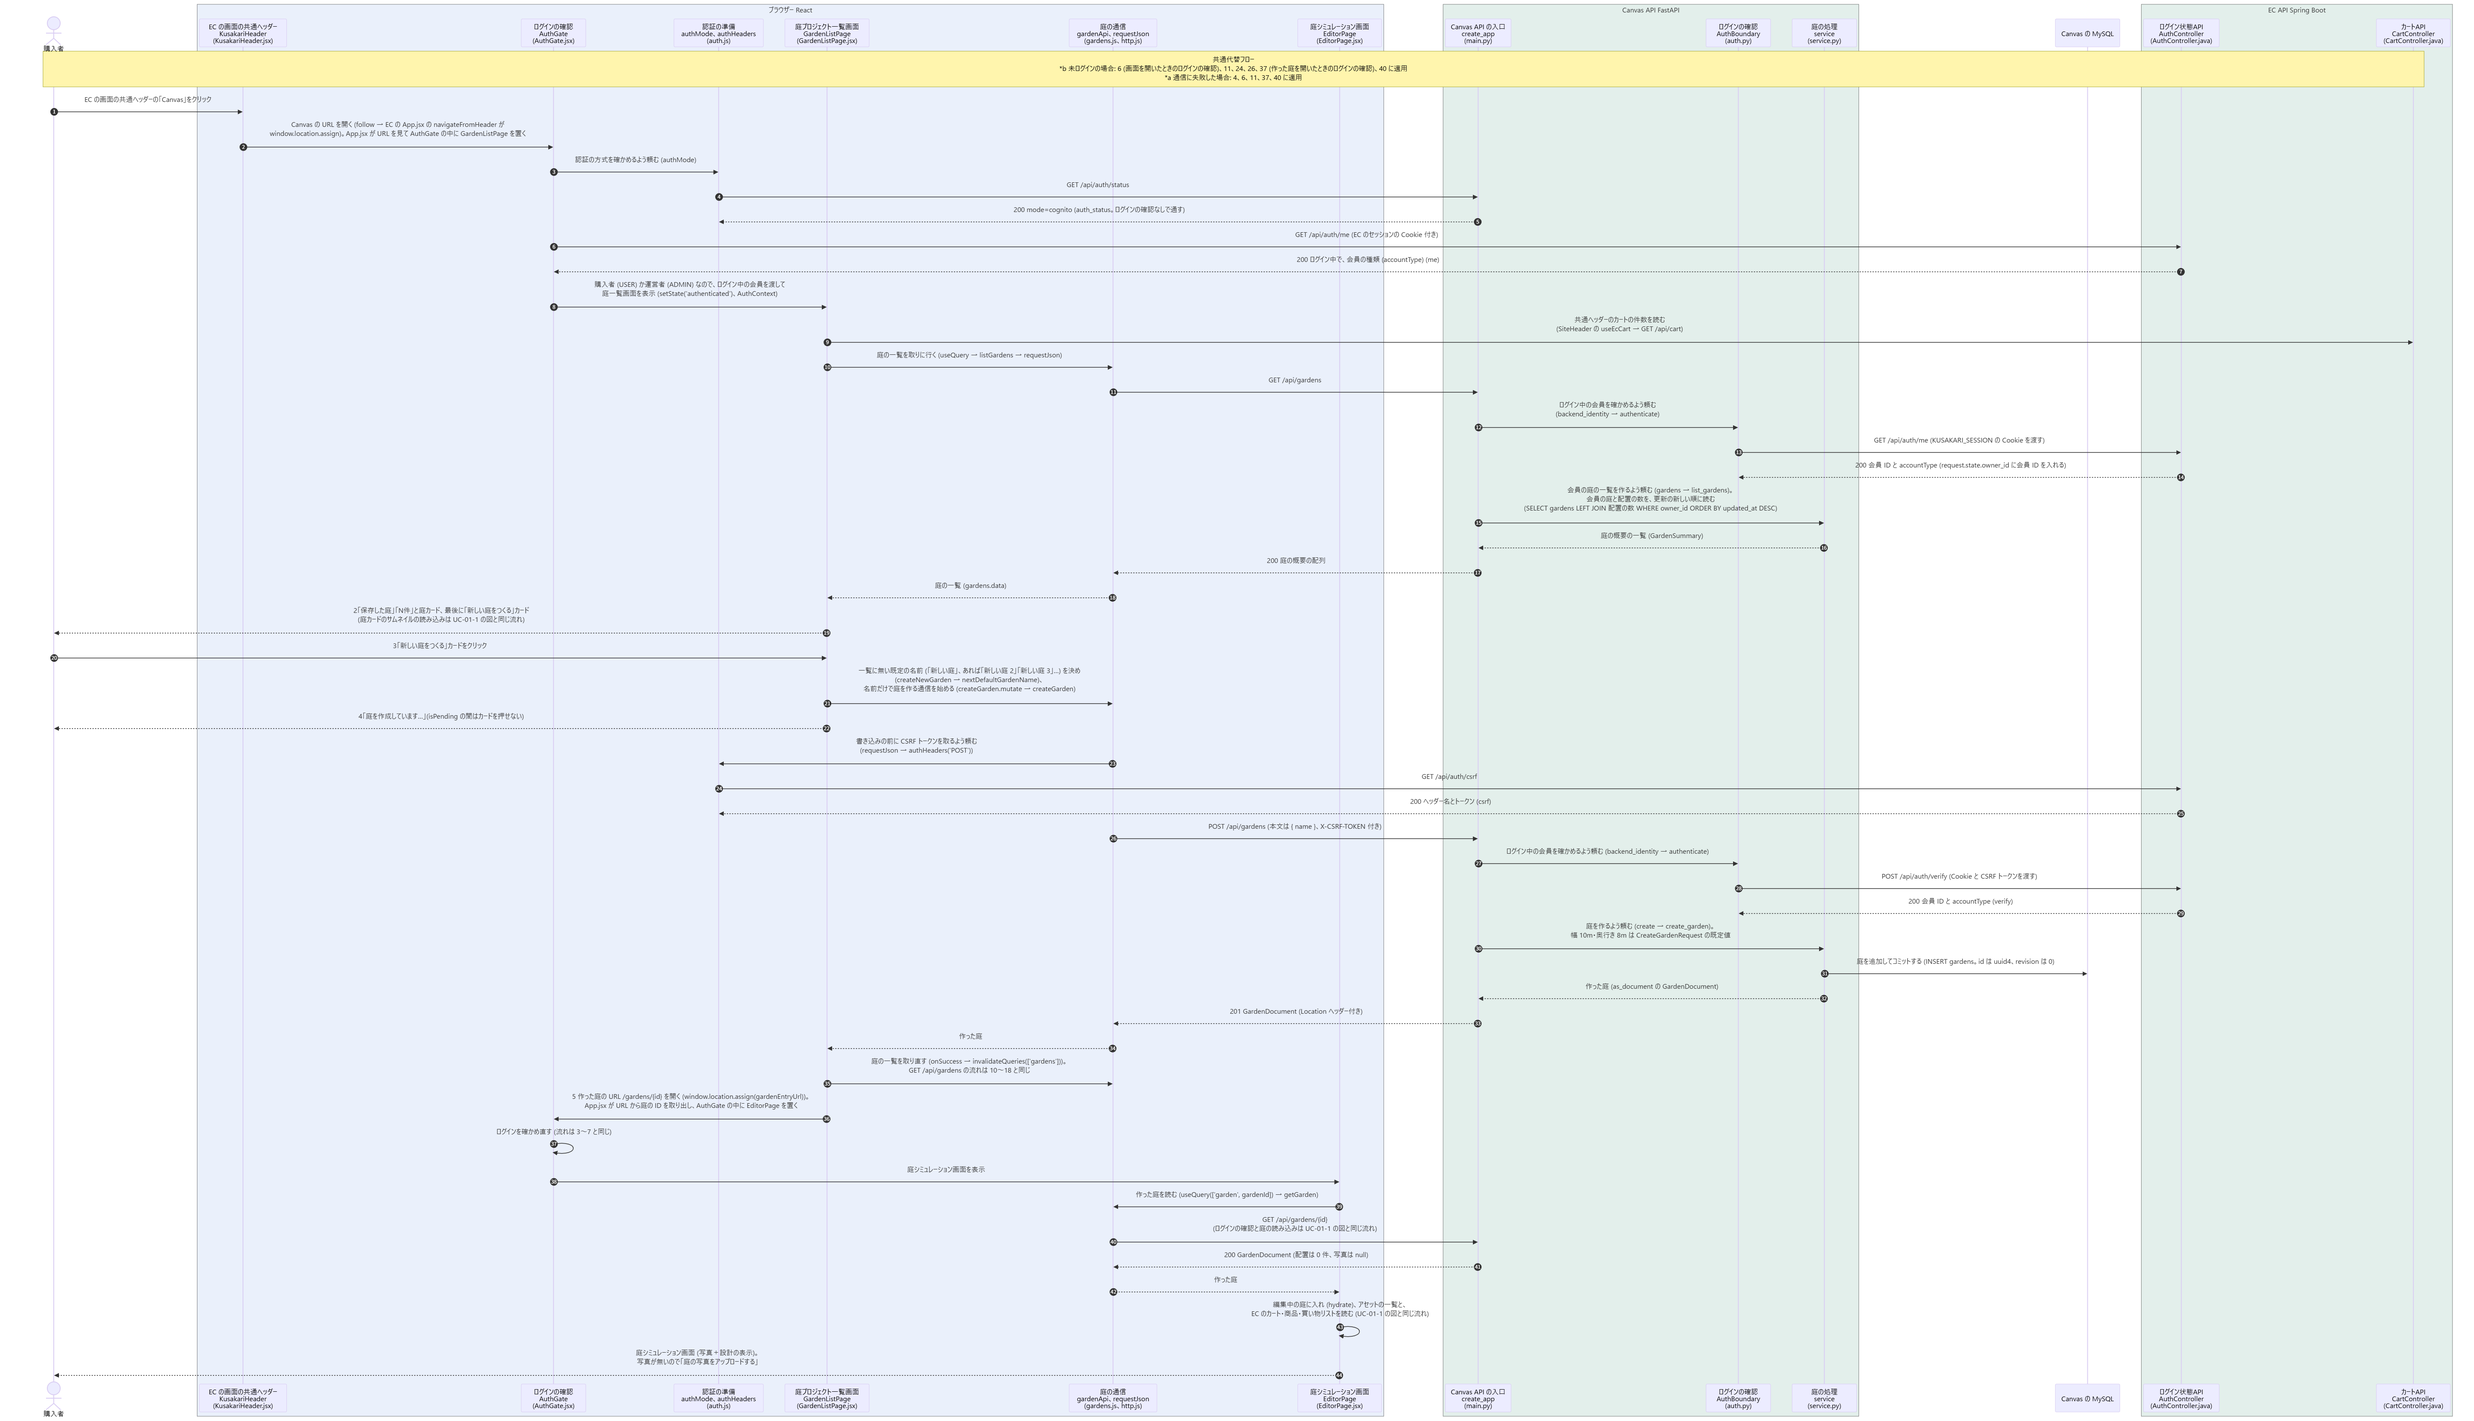
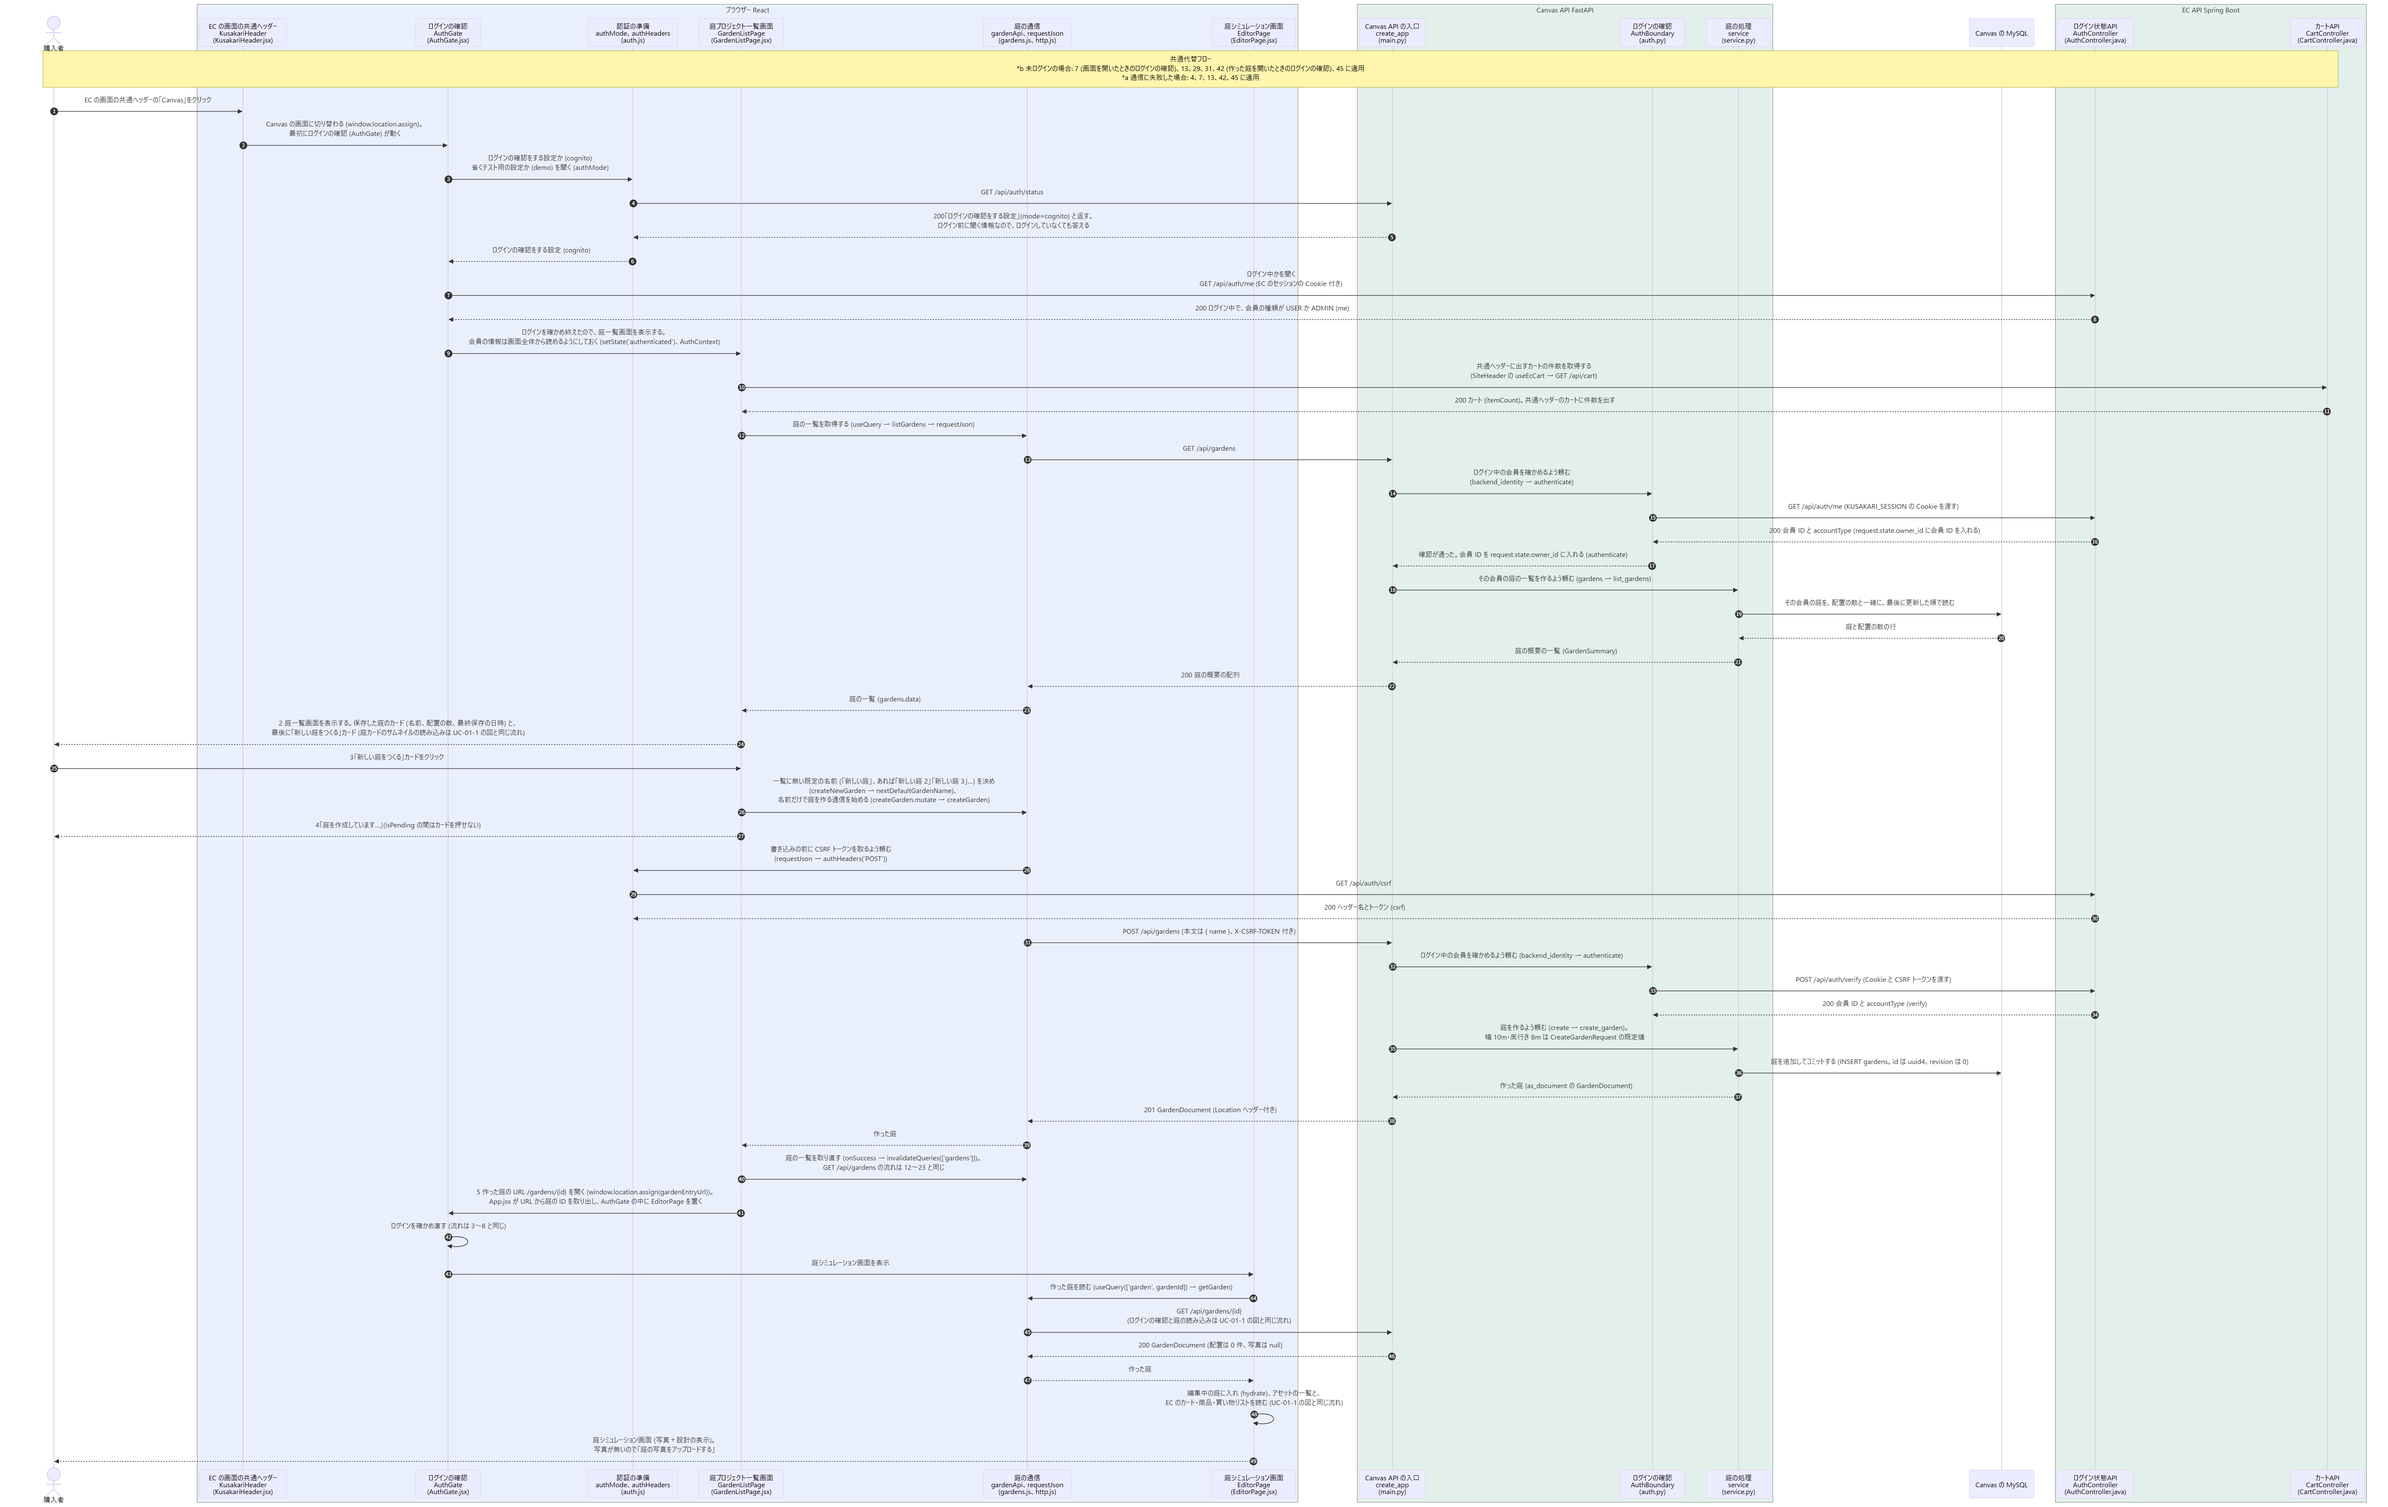
「庭プロジェクトを新規作成する」シーケンス図を修正

diff --git a/シーケンス図/kusakari-canvas/UC-01_庭プロジェクトを新規作成する.md b/シーケンス図/kusakari-canvas/UC-01_庭プロジェクトを新規作成する.md
@@ -23,27 +23,32 @@ sequenceDiagram
         participant Cart as カートAPI<br/>CartController<br/>(CartController.java)
     end
 
-    Note over User,Cart: 共通代替フロー<br/>*b 未ログインの場合: 6 (画面を開いたときのログインの確認)、11、24、26、37 (作った庭を開いたときのログインの確認)、40 に適用<br/>*a 通信に失敗した場合: 4、6、11、37、40 に適用
+    Note over User,Cart: 共通代替フロー<br/>*b 未ログインの場合: 7 (画面を開いたときのログインの確認)、13、31、42 (作った庭を開いたときのログインの確認)、45 に適用<br/>*a 通信に失敗した場合: 4、7、13、42、45 に適用
 
     User->>EcHeader: EC の画面の共通ヘッダーの「Canvas」をクリック
-    EcHeader->>Gate: Canvas の URL を開く (follow → EC の App.jsx の navigateFromHeader が<br/>window.location.assign)。App.jsx が URL を見て AuthGate の中に GardenListPage を置く
-    Gate->>AuthJs: 認証の方式を確かめるよう頼む (authMode)
+    EcHeader->>Gate: Canvas の画面に切り替わる (window.location.assign)。<br/>最初にログインの確認 (AuthGate) が動く
+    Gate->>AuthJs: ログインの確認をする設定か (cognito)<br/>省くテスト用の設定か (demo) を聞く (authMode)
     AuthJs->>Main: GET /api/auth/status
-    Main-->>AuthJs: 200 mode=cognito (auth_status。ログインの確認なしで通す)
-    Gate->>EcAuth: GET /api/auth/me (EC のセッションの Cookie 付き)
-    EcAuth-->>Gate: 200 ログイン中で、会員の種類 (accountType) (me)
-    Gate->>List: 購入者 (USER) か運営者 (ADMIN) なので、ログイン中の会員を渡して<br/>庭一覧画面を表示 (setState('authenticated')、AuthContext)
-    List->>Cart: 共通ヘッダーのカートの件数を読む<br/>(SiteHeader の useEcCart → GET /api/cart)
-    List->>Http: 庭の一覧を取りに行く (useQuery → listGardens → requestJson)
+    Main-->>AuthJs: 200「ログインの確認をする設定」(mode=cognito) と返す。<br/>ログイン前に聞く情報なので、ログインしていなくても答える
+    AuthJs-->>Gate: ログインの確認をする設定 (cognito)
+    Gate->>EcAuth: ログイン中かを聞く<br/>GET /api/auth/me (EC のセッションの Cookie 付き)
+    EcAuth-->>Gate: 200 ログイン中で、会員の種類が USER か ADMIN (me)
+    Gate->>List: ログインを確かめ終えたので、庭一覧画面を表示する。<br/>会員の情報は画面全体から読めるようにしておく (setState('authenticated')、AuthContext)
+    List->>Cart: 共通ヘッダーに出すカートの件数を取得する<br/>(SiteHeader の useEcCart → GET /api/cart)
+    Cart-->>List: 200 カート (itemCount)。共通ヘッダーのカートに件数を出す
+    List->>Http: 庭の一覧を取得する (useQuery → listGardens → requestJson)
     Http->>Main: GET /api/gardens
     Main->>AuthPy: ログイン中の会員を確かめるよう頼む<br/>(backend_identity → authenticate)
     AuthPy->>EcAuth: GET /api/auth/me (KUSAKARI_SESSION の Cookie を渡す)
     EcAuth-->>AuthPy: 200 会員 ID と accountType (request.state.owner_id に会員 ID を入れる)
-    Main->>Svc: 会員の庭の一覧を作るよう頼む (gardens → list_gardens)。<br/>会員の庭と配置の数を、更新の新しい順に読む<br/>(SELECT gardens LEFT JOIN 配置の数 WHERE owner_id ORDER BY updated_at DESC)
+    AuthPy-->>Main: 確認が通った。会員 ID を request.state.owner_id に入れる (authenticate)
+    Main->>Svc: その会員の庭の一覧を作るよう頼む (gardens → list_gardens)
+    Svc->>Db: その会員の庭を、配置の数と一緒に、最後に更新した順で読む
+    Db-->>Svc: 庭と配置の数の行
     Svc-->>Main: 庭の概要の一覧 (GardenSummary)
     Main-->>Http: 200 庭の概要の配列
     Http-->>List: 庭の一覧 (gardens.data)
-    List-->>User: 2「保存した庭」「N件」と庭カード、最後に「新しい庭をつくる」カード<br/>(庭カードのサムネイルの読み込みは UC-01-1 の図と同じ流れ)
+    List-->>User: 2 庭一覧画面を表示する。保存した庭のカード (名前、配置の数、最終保存の日時) と、<br/>最後に「新しい庭をつくる」カード (庭カードのサムネイルの読み込みは UC-01-1 の図と同じ流れ)
 
     User->>List: 3「新しい庭をつくる」カードをクリック
     List->>Http: 一覧に無い既定の名前 (「新しい庭」、あれば「新しい庭 2」「新しい庭 3」…) を決め<br/>(createNewGarden → nextDefaultGardenName)、<br/>名前だけで庭を作る通信を始める (createGarden.mutate → createGarden)
@@ -60,9 +65,9 @@ sequenceDiagram
     Svc-->>Main: 作った庭 (as_document の GardenDocument)
     Main-->>Http: 201 GardenDocument (Location ヘッダー付き)
     Http-->>List: 作った庭
-    List->>Http: 庭の一覧を取り直す (onSuccess → invalidateQueries(['gardens']))。<br/>GET /api/gardens の流れは 10〜18 と同じ
+    List->>Http: 庭の一覧を取り直す (onSuccess → invalidateQueries(['gardens']))。<br/>GET /api/gardens の流れは 12〜23 と同じ
     List->>Gate: 5 作った庭の URL /gardens/{id} を開く (window.location.assign(gardenEntryUrl))。<br/>App.jsx が URL から庭の ID を取り出し、AuthGate の中に EditorPage を置く
-    Gate->>Gate: ログインを確かめ直す (流れは 3〜7 と同じ)
+    Gate->>Gate: ログインを確かめ直す (流れは 3〜8 と同じ)
     Gate->>Editor: 庭シミュレーション画面を表示
     Editor->>Http: 作った庭を読む (useQuery(['garden', gardenId]) → getGarden)
     Http->>Main: GET /api/gardens/{id}<br/>(ログインの確認と庭の読み込みは UC-01-1 の図と同じ流れ)
